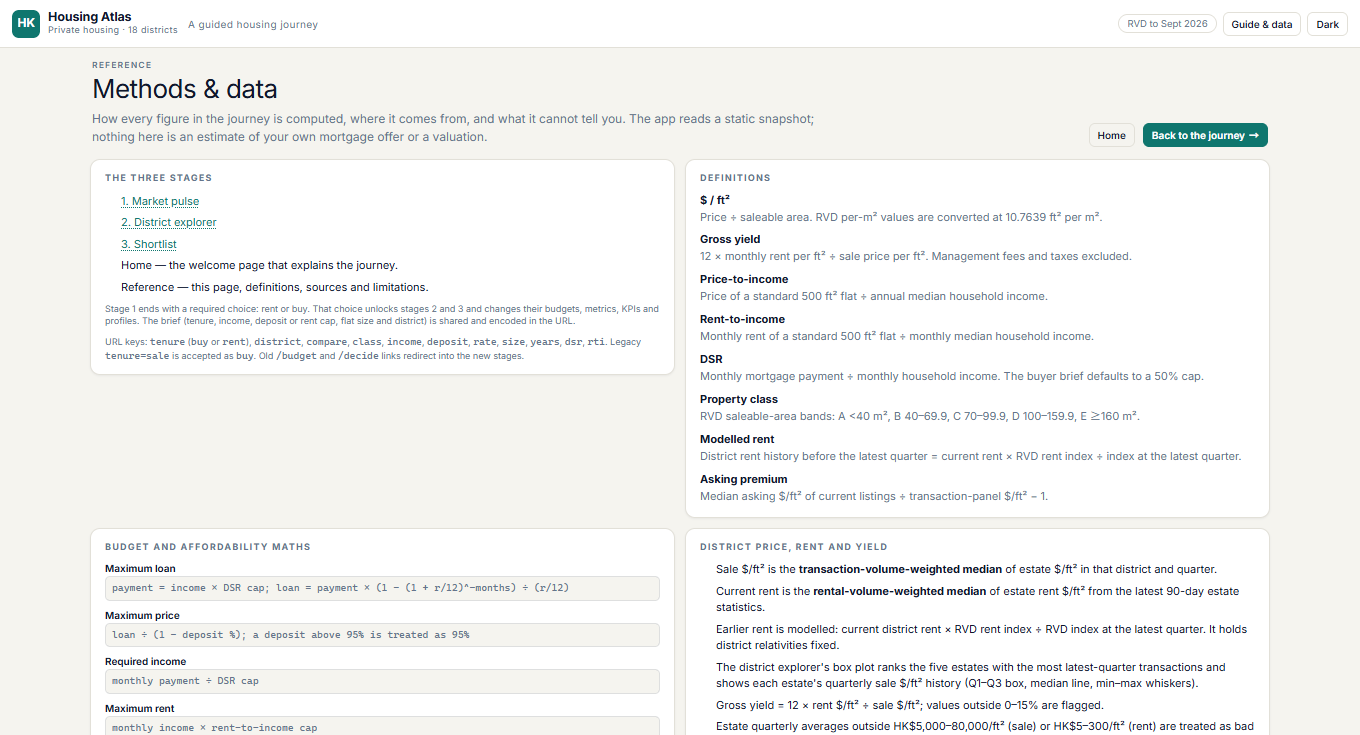
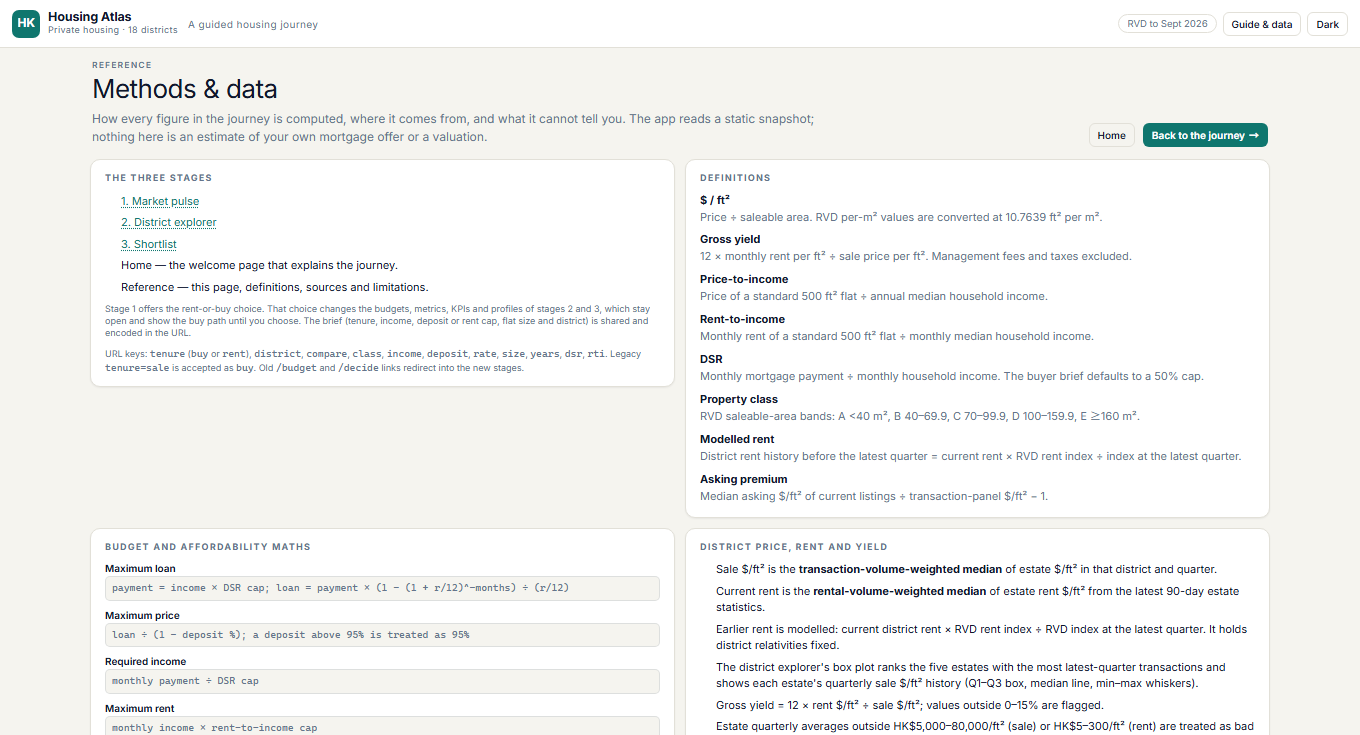
Fix drawer click-away and refresh docs
- close guide and data-note drawers only on outside click or Close

- add a scrim behind the drawer so inside clicks are not intercepted

- correct stale lock, reset and chart-size details in README/JOURNEY

- refresh the Methods screenshot

Changed region(s): [[0.0618, 0.419, 0.4941, 0.5088]]

diff --git a/app/src/components/GuideDrawer.tsx b/app/src/components/GuideDrawer.tsx
@@ -33,7 +33,7 @@ export default function GuideDrawer({ open, onClose }: { open: boolean; onClose:
 
   return (
     <div className="drawer-backdrop">
-      <button type="button" aria-label="Close guide" className="absolute inset-0 cursor-default" onClick={onClose} />
+      <div className="drawer-scrim" aria-hidden="true" onClick={onClose} />
       <aside role="dialog" aria-modal="true" aria-labelledby="guide-title" className="drawer">
         <div className="drawer-head">
           <div>

diff --git a/app/src/components/DataNote.tsx b/app/src/components/DataNote.tsx
@@ -38,7 +38,7 @@ function Drawer({ entry, onClose }: { entry: DataNoteEntry; onClose: () => void 
 
   return (
     <div className="drawer-backdrop">
-      <button type="button" aria-label="Close data note" className="absolute inset-0 cursor-default" onClick={onClose} />
+      <div className="drawer-scrim" aria-hidden="true" onClick={onClose} />
       <aside
         role="dialog"
         aria-modal="true"

diff --git a/app/src/styles.css b/app/src/styles.css
@@ -971,7 +971,15 @@ button {
   backdrop-filter: blur(1px);
 }
 
+.drawer-scrim {
+  position: absolute;
+  inset: 0;
+  cursor: default;
+}
+
 .drawer {
+  position: relative;
+  z-index: 1;
   display: flex;
   flex-direction: column;
   width: min(430px, 100%);

diff --git a/README.md b/README.md
@@ -26,7 +26,7 @@ The app opens on a welcome page that explains the journey. Stage 1 analyses the 
 
 ## Status
 
-The three-stage revision is complete as of **2026-11-12**. It replaces the earlier five-stage layout; `/budget` and `/decide` no longer exist and redirect to `/explore` and `/shortlist`. Nothing in `pipeline/` or `data/` changed, and no JSON schema changed.
+The three-stage revision is complete as of **2026-11-13**. It replaces the earlier five-stage layout; `/budget` and `/decide` no longer exist and redirect to `/explore` and `/shortlist`. Nothing in `pipeline/` or `data/` changed, and no JSON schema changed.
 
 | Phase | Scope | Status |
 |---|---|---|
@@ -75,15 +75,15 @@ npm --prefix app run preview
 
 A persistent rail on stages 1–3 holds the shared state:
 
-- **Path** — Buy or Rent. Unchosen until stage 1, then editable.
+- **Path** — Buy or Rent, selectable in the rail from the first load. Buy is shown until a choice is made.
 - **Household income** — slider and exact input.
 - **Flat size** — 200–800 ft², used for every per-district price and rent.
 - **Buyers** — deposit, mortgage rate, loan term and a 40/50/60% DSR cap; the rail shows the maximum price, monthly payment, DSR and the +200 bp stressed payment.
 - **Tenants** — a 30/40/50% rent-to-income cap; the rail shows the maximum rent.
 - **District** — set by the rail, a map click or a ranking/budget click; the shortlist count is shown here.
-- **Reset** — clears the brief, returns to the welcome page and re-locks stages 2 and 3.
+- **Reset** — clears the brief, returns to the welcome page and leaves stages 2 and 3 open on the buy variant.
 
-While no path is chosen, the rail keeps the mortgage inputs visible because the stage-1 buy-cost signal needs them, and shows “Ceiling: choose a path”.
+While no path is chosen, the rail shows the buy inputs and ceiling, because stages 2 and 3 default to buy. Choosing Rent switches the rail to the rent cap.
 
 ### URL state
 
@@ -98,7 +98,7 @@ The brief is mirrored into the query string with stable, validated keys:
 
 ### One-screen guarantee
 
-On desktop (≥1200 px wide) the shell is a fixed-height grid: 48 px top bar, 232 px rail, then a 40 px stage header, a 52 px KPI strip and a two-row bento grid that consumes the remaining height. Charts fill their cells and ECharts' `ResizeObserver` keeps them in sync. At **1360 × 735** every stage measures `scrollHeight = 735`; at 1440 × 900 the chart cells grow to 355 px. The welcome page and Methods use the full width without a rail; below 700 px viewport height pages scroll, and below 1200 px the rail becomes a filter bar and panels stack.
+On desktop (≥1200 px wide) the shell is a fixed-height grid: 48 px top bar, 232 px rail, then a 40 px stage header, a 52 px KPI strip and a two-row bento grid that consumes the remaining height. Charts fill their cells and ECharts' `ResizeObserver` keeps them in sync. At **1360 × 735** every stage measures `scrollHeight = 735`; at 1440 × 900 the stage-2 chart cells grow from about 222 px to 299 px. The welcome page and Methods use the full width without a rail; below 700 px viewport height pages scroll, and below 1200 px the rail becomes a filter bar and panels stack.
 
 ## Stage by stage
 
@@ -222,10 +222,10 @@ The same files are copied to `app/public/data/latest/` for the static app. The l
 app/src/
   routes/              Home, Pulse (/market), Explore, Shortlist, Methods
   components/          AppShell, StageNav, BriefRail, StageHeader, Panel, Stat,
-                       Segmented, DataNote, GuideDrawer, StageLock, TenureChoice,
+                       Segmented, DataNote, GuideDrawer, TenureChoice,
                        DistrictMap, Chart, EmptyState
   data/                typed JSON loaders, listing sample, cardInfo data notes
-  state/journey.ts     shared brief (Zustand) + theme store
+  state/               journey brief (Zustand) + theme store
   lib/                 format, stats, finance, journey budget maths,
                        listings, marketSeries, districtMetrics, chartOptions, filterUrl
 ```
@@ -269,12 +269,13 @@ Measured results:
 | Stage 2 estate boxes | five most-traded estates drawn between the map and ranking; Sha Tin 5/5, Southern 4/5 with the count stated |
 | Unchosen path on `/explore` or `/shortlist` | renders the buy variant with no lock card; the stepper links to all three stages |
 | `/methods` at 1360 × 735 | document stays 735; the main column scrolls internally |
-| 1440 × 900 | fit; chart cells grow from 273 px to 355 px |
+| 1440 × 900 | fit; stage-2 chart cells grow from about 222 px to 299 px |
 | Welcome at 390 × 844 | stacks and scrolls; no horizontal overflow |
+| Welcome arrows | 43.2 × 210 px at 20% opacity, centred on both card gaps; hidden below 900 px |
 | Dark mode at 1360 × 735 | fits; palette and map chrome switch |
 | Rent/buy choice | fresh `/market` shows both choices and an always-available next CTA; choosing adds `tenure=buy/rent` and switches both later stages |
 | Redirects | `/budget → /explore`, `/affordability → /explore`, `/decide → /shortlist`, `/districts → /explore`, query preserved |
-| Reset | returns to `/`, clears the path and re-locks stages 2 and 3 |
+| Reset | returns to `/`, clears the path; stages remain open on the buy variant |
 
 Captures for this revision are in [docs/screenshots-v3/](docs/screenshots-v3/).
 

diff --git a/docs/JOURNEY_REBUILD_PLAN.md b/docs/JOURNEY_REBUILD_PLAN.md
@@ -1,7 +1,7 @@
 # HK Housing Atlas — three-stage journey with a rent/buy choice
 
 > **Complete.** The three-stage revision landed on 2026-11-12, replacing the earlier five-stage layout. This document holds the stage specifications, state model and verification record for future work.
-> **Last updated:** 2026-11-12
+> **Last updated:** 2026-11-13
 > **Repo:** `C:\Users\micha\Desktop\dsh\visualProject` (git, branch `main`)
 > **App:** React 19 · Vite 8 · Tailwind 4 · ECharts 6 · Leaflet · Zustand · React Router 7
 
@@ -178,15 +178,15 @@
 | `lib/districtMetrics.ts` | Adds `rent_yoy` and `districtBudgetRows` (per-district monthly price/rent, budget status, required income). |
 | `data/cardInfo.ts` | 15 data notes: brief/choice, four pulse notes, six explore notes (incl. most-traded estates), four shortlist notes. No PCA entry. |
 
-Data flow: brief rail → Zustand → selectors → stage charts. The URL mirrors the brief. Listing data is fetched once and cached; `pca.json` is read only for its `scores` records.
+Data flow: brief rail → Zustand → selectors → stage charts. The URL mirrors the brief. Listing data is fetched once and cached from `pca.json` as plain listing records; no PCA scores or dimension-reduction output is used.
 
 ---
 
 ## 7. File map
 
-**New:** `routes/Home.tsx`, `components/StageLock.tsx`, `components/TenureChoice.tsx`, `components/EstateBoxPlot.tsx` (reintroduced for stage 2), `lib/listings.ts` (+ test), `data/useListings.ts`.
+**New:** `routes/Home.tsx`, `components/TenureChoice.tsx`, `components/EstateBoxPlot.tsx` (reintroduced for stage 2), `lib/listings.ts` (+ test), `data/useListings.ts`.
 
-**Rewritten:** `App.tsx` (home + three stages + redirects), `components/StageNav.tsx` (3 steps, lock), `components/AppShell.tsx` (no rail/stepper on home and Methods), `components/BriefRail.tsx` (nullable path, reset to home), `routes/Pulse.tsx`, `routes/Explore.tsx`, `routes/Shortlist.tsx`, `routes/Methods.tsx`, `components/GuideDrawer.tsx`, `components/DataNote.tsx`, `data/cardInfo.ts`, `lib/filterUrl.ts` (+ tests), `lib/districtMetrics.ts`, `styles.css`, `README.md`, `app/index.html`.
+**Rewritten:** `App.tsx` (home + three stages + redirects), `components/StageNav.tsx` (3 steps), `components/AppShell.tsx` (no rail/stepper on home and Methods), `components/BriefRail.tsx` (nullable path, reset to home), `routes/Pulse.tsx`, `routes/Explore.tsx`, `routes/Shortlist.tsx`, `routes/Methods.tsx`, `components/GuideDrawer.tsx`, `components/DataNote.tsx`, `data/cardInfo.ts`, `lib/filterUrl.ts` (+ tests), `lib/districtMetrics.ts`, `styles.css`, `README.md`, `app/index.html`.
 
 **Deleted:** `routes/Budget.tsx`, `routes/Decide.tsx`, `components/PcaScreeLoadings.tsx`, `components/Checklist.tsx`, `data/usePca.ts`.
 
@@ -229,6 +229,7 @@ Unit coverage includes the rent/buy URL round-trip (`tenure=buy|sale|rent`, null
 | Check | Result |
 |---|---|
 | Fresh `/` | welcome hero, 3 cards with previews, no locked states, no rail/stepper, Start → `/market` |
+| Welcome arrows | 43.2 × 210 px at 20% opacity, centred on both card gaps; hidden below 900 px |
 | Start + choose Buy | URL gains `tenure=buy`; next CTA `/explore?tenure=buy`; rail shows Buy |
 | Buyer stage 2 | title “Where can you afford to buy…”; panels map, most-traded estate boxes, ranking, budget fit, gross yield, price trend; metrics Sale/Price YoY/Yield |
 | Most-traded estate boxes | 5 rows at 1360 × 735; Sha Tin shows 5/5 boxes, Southern 4/5 (one top estate has no chart); tooltip states volume, n and period |
